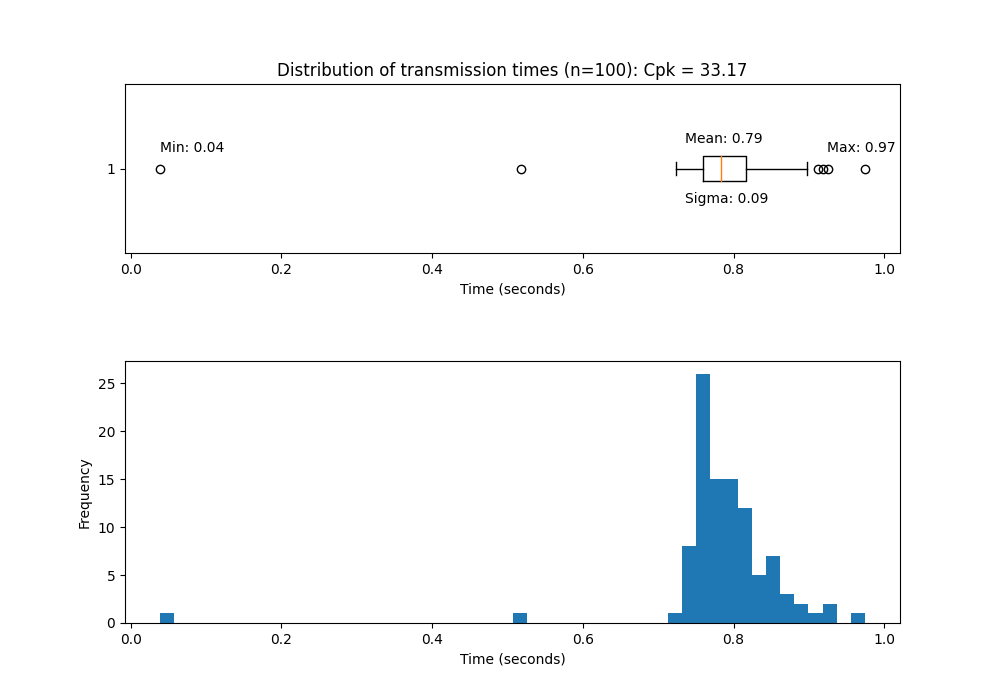
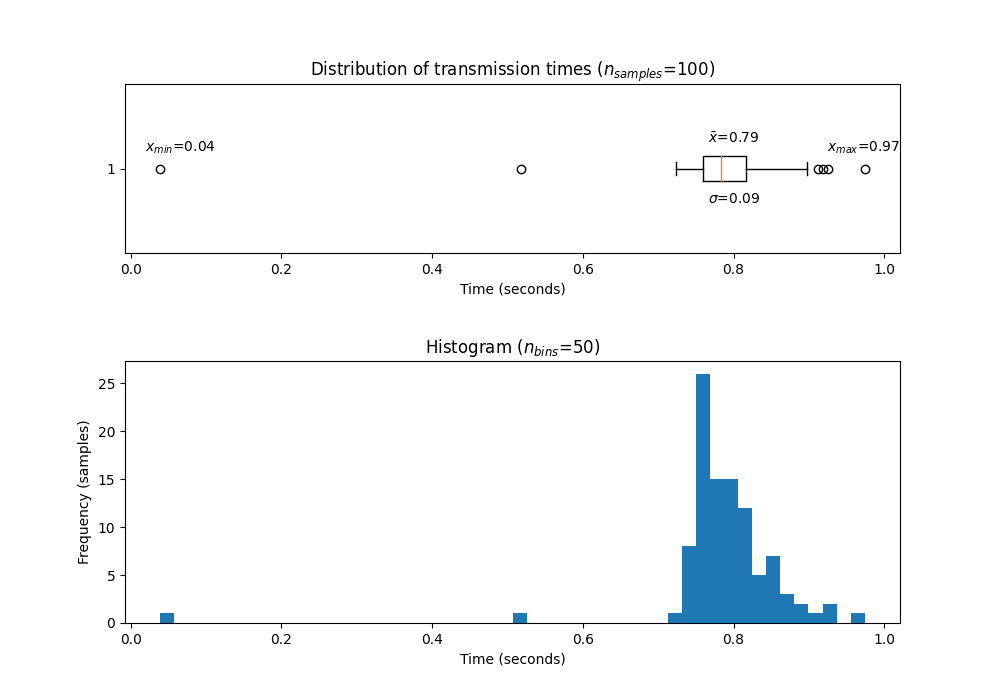
adjusted notation on plots

diff --git a/software/subsystems/prototype_notification_analysis.py b/software/subsystems/prototype_notification_analysis.py
@@ -11,24 +11,25 @@ min = np.min(data/1000000)
 max = np.max(data/1000000)
 sigma = np.sqrt(np.var(data/1000000))
 Cpk = (USL - mu) / (3*sigma)
-print("mu: %f s\nsigma: %f s\nCpk: %.2f" % (mu, sigma, Cpk))
+print(r'Mean: %f s\Standard Deviation: %f s\nCpk= $\frac{USL-\bar{x}}{3*\sigma}$ %.2f' % (mu, sigma, Cpk))
 
 # plot the data
 plt.figure("11.6.24_100_pi_test.npy", (10, 7))
 
 plt.subplot(6,1,(1,2))
-plt.title("Distribution of transmission times (n=100): Cpk = %.2f" % Cpk)
+plt.title(r"Distribution of transmission times ($n_{samples}$=100)")
 plt.boxplot(data/1000000, vert=False)
 plt.xlabel("Time (seconds)")
-plt.text(min, 1.1, "Min: %0.2f" % min)
-plt.text(max-.05, 1.1, "Max: %0.2f" % max)
-plt.text(mu-.05, 1.15, "Mean: %0.2f" % mu)
-plt.text(mu-.05, .8, "Sigma: %0.2f" % sigma)
+plt.text(min-.02, 1.1, r"$x_{min}$=%0.2f" % min)
+plt.text(max-.05, 1.1, r"$x_{max}$=%0.2f" % max)
+plt.text(mu-.02, 1.15, r"$\bar{x}$=%0.2f" % mu)
+plt.text(mu-.02, .8, r"$\sigma$=%0.2f" % sigma)
 
 plt.subplot(6,1,(4,6))
 plt.hist(data/1000000, bins=50)
+plt.title(r"Histogram ($n_{bins}$=50)")
 plt.xlabel("Time (seconds)")
-plt.ylabel("Frequency")
+plt.ylabel("Frequency (samples)")
 
 plt.savefig("./data/11.6.24_100_pi_test.png")
 plt.show()
